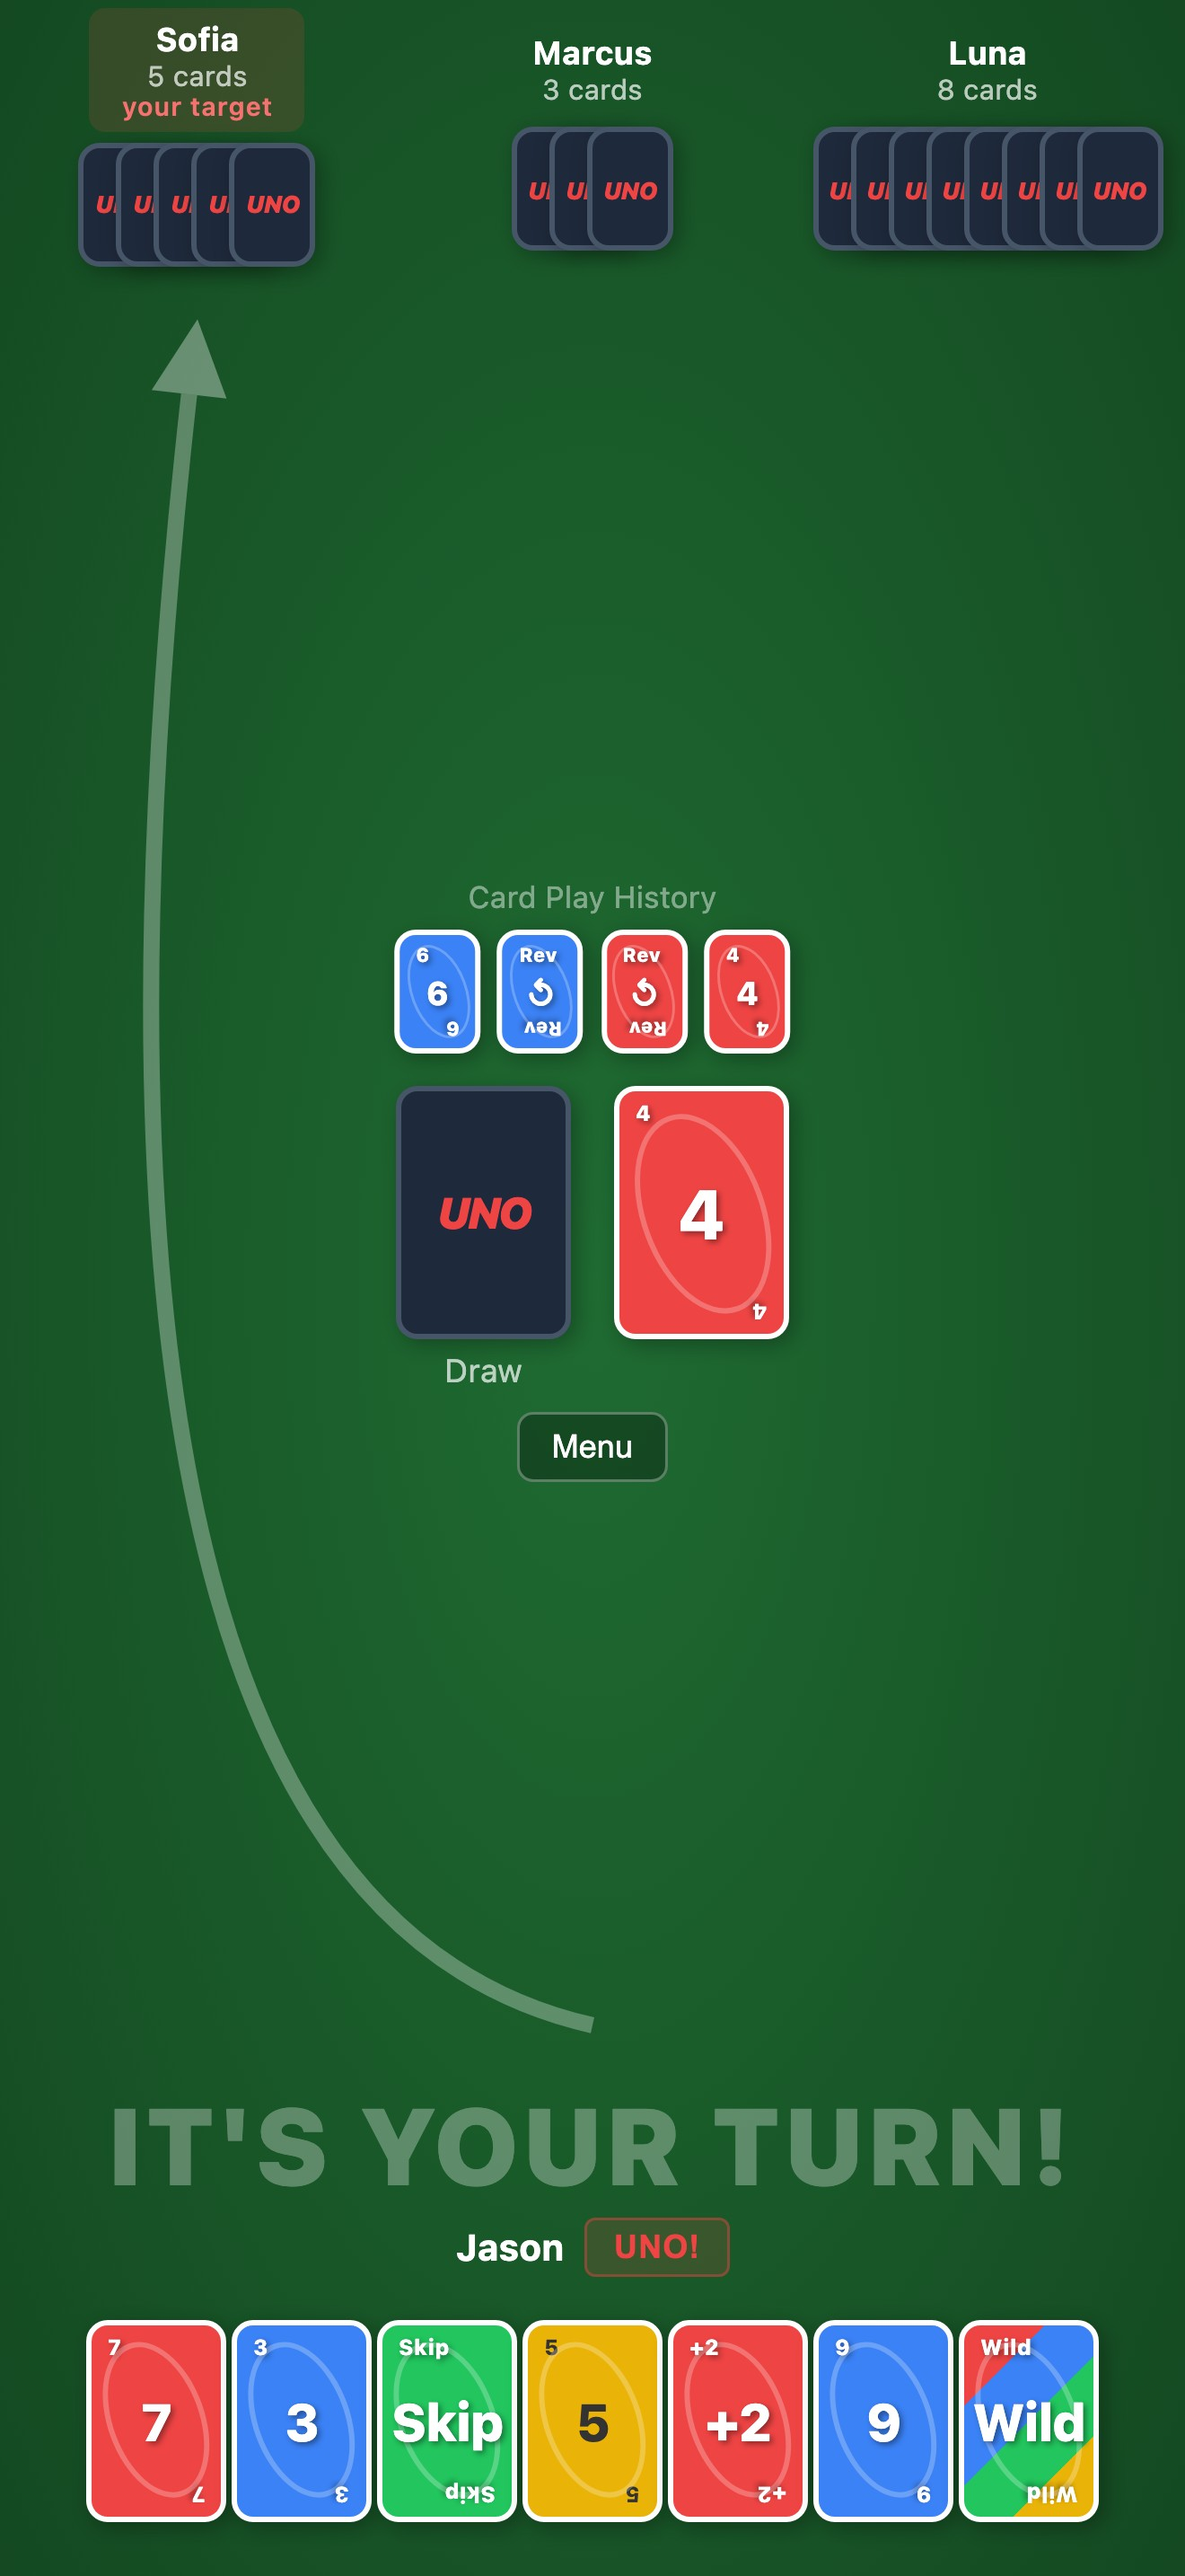
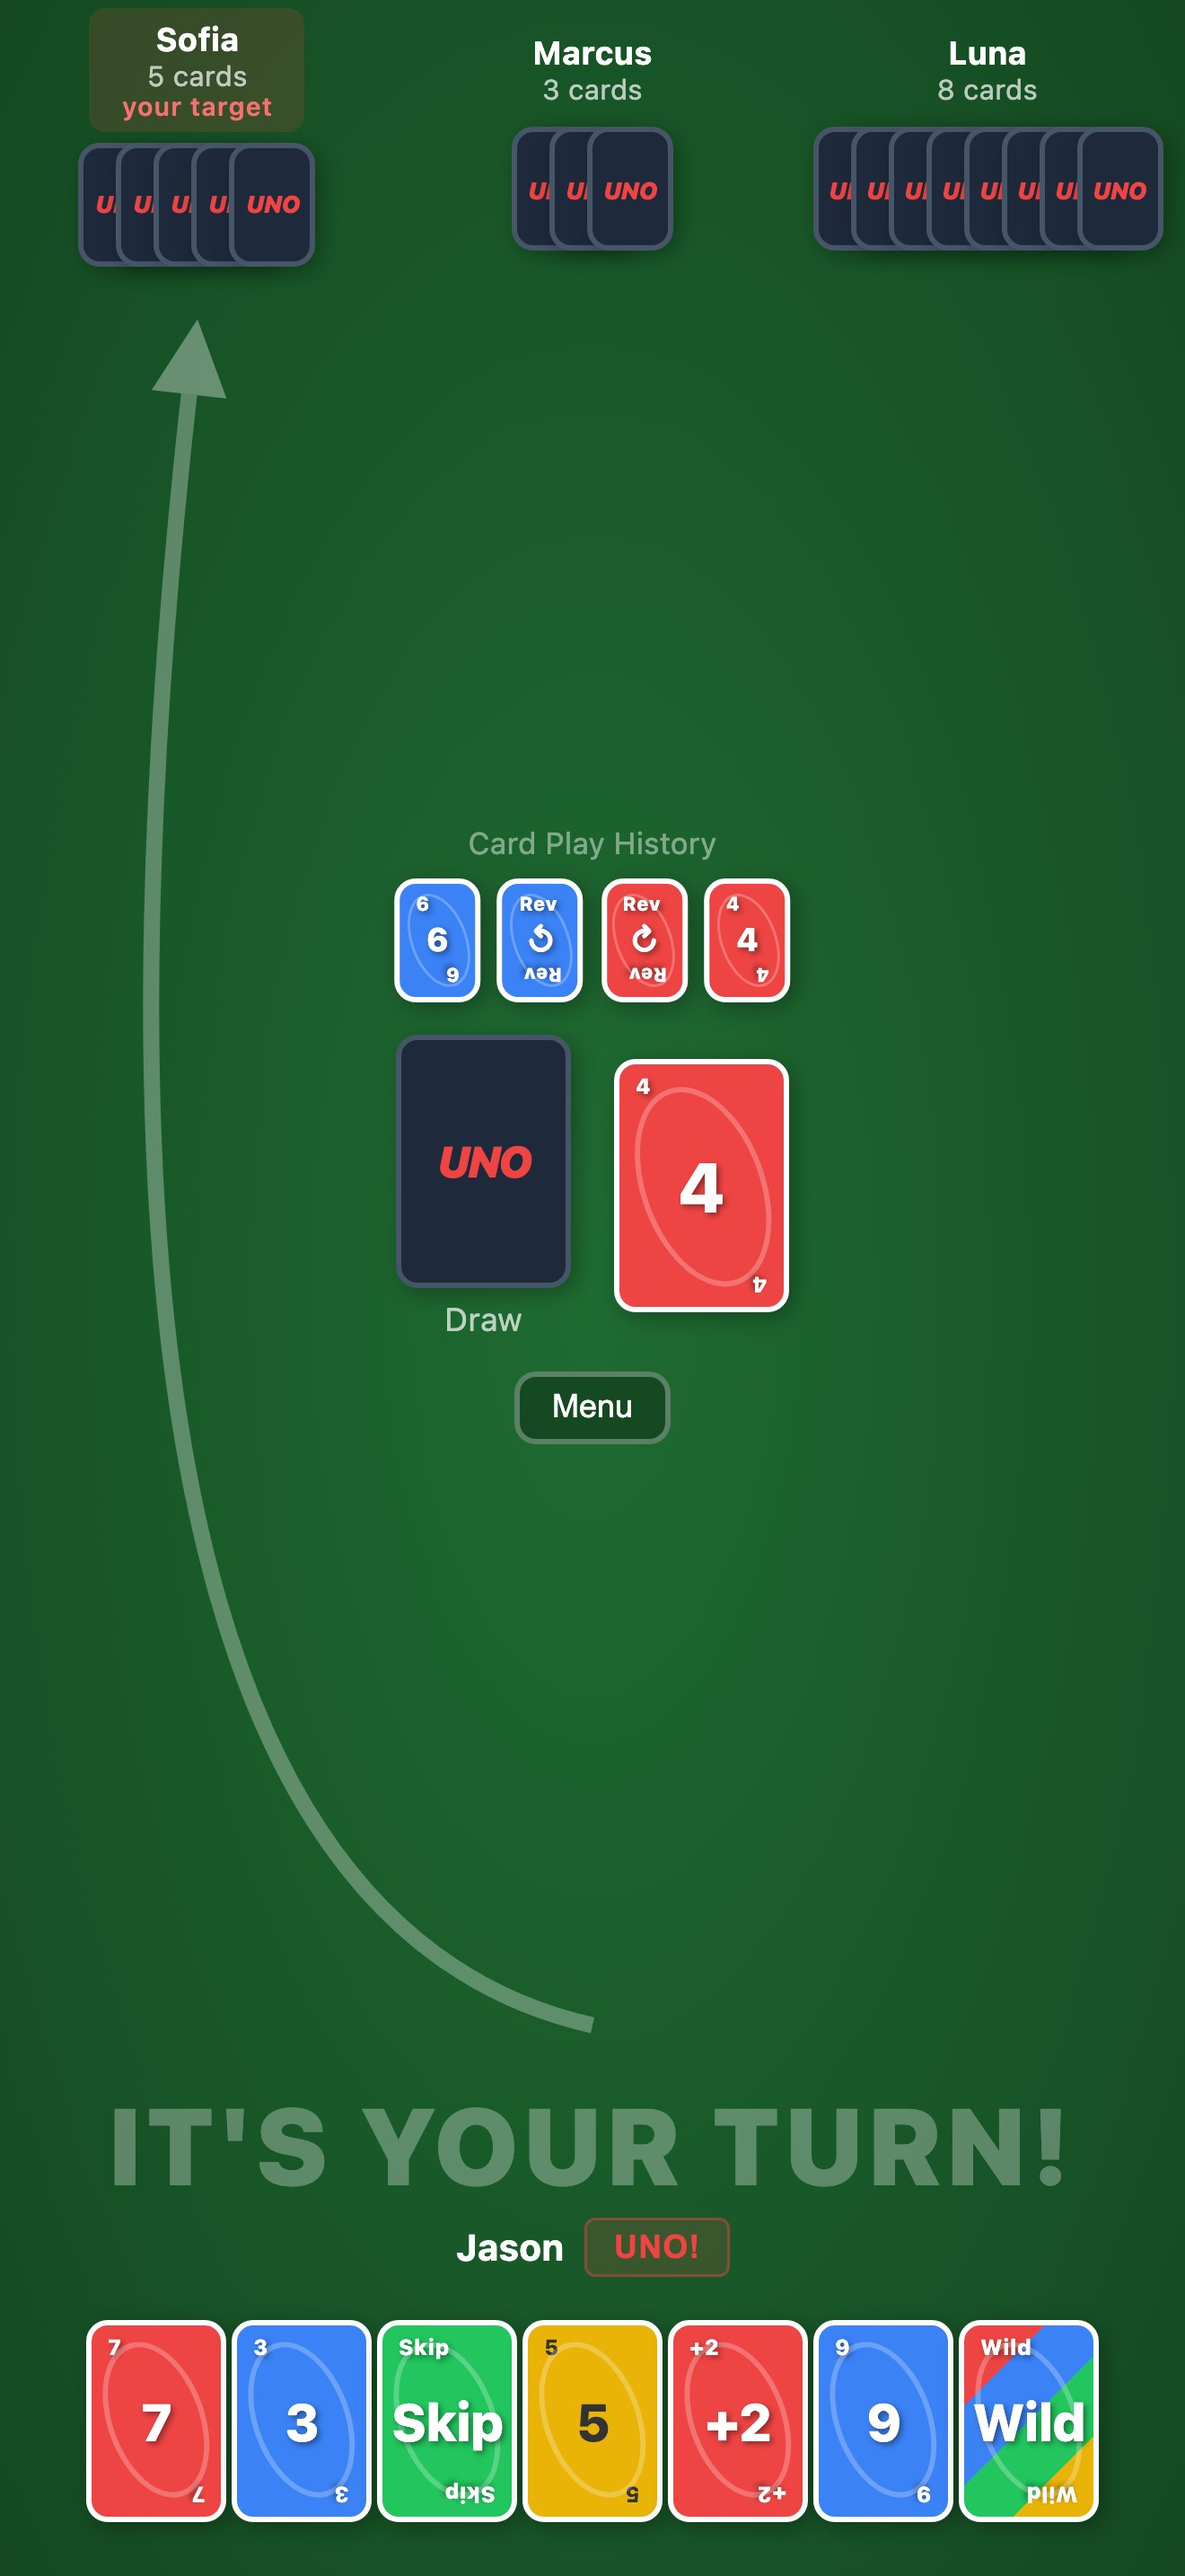
Add tablet-responsive layout, move menu button into game board, and improve screenshot reliability
Introduces a compact layout breakpoint at 1100px for tablets with scaled-up card
sizes, moves the menu button from a fixed overlay into the GameBoard component,
refines direction arrow thresholds, bumps iOS marketing version to 1.0.2, and
makes the screenshot script use fresh pages per scenario with robust state waiting.

Changed region(s): [[0.3106, 0.3103, 0.6833, 0.5896]]

diff --git a/src/style.css b/src/style.css
@@ -219,7 +219,7 @@ body {
   position: relative;
   display: flex;
   gap: 2rem;
-  align-items: flex-start;
+  align-items: center;
 }
 
 /* ---- Cards ---- */
@@ -771,26 +771,22 @@ body {
 
 /* ---- Menu Button & Pause Menu ---- */
 .menu-btn {
-  position: fixed;
-  bottom: 50%;
-  left: 50%;
-  transform: translate(-50%, 4.5rem);
   padding: 0.4rem 1rem;
-  border-radius: 6px;
-  border: 1px solid rgba(255,255,255,0.3);
+  border-radius: var(--card-radius);
+  border: var(--card-border) solid rgba(255,255,255,0.3);
   background: rgba(0,0,0,0.3);
   color: #fff;
   font-size: 0.85rem;
   cursor: pointer;
   z-index: 50;
   transition: background 0.15s;
+  align-self: center;
 }
 
 .menu-btn--lobby {
+  position: fixed;
   bottom: 1rem;
-  left: auto;
   right: 1rem;
-  transform: none;
 }
 
 .menu-btn:hover {
@@ -994,7 +990,151 @@ body {
   }
 }
 
-/* ---- Mobile Layout ---- */
+/* ---- Compact Layout (Tablet + Phone) ---- */
+@media (width <= 1100px) {
+  /* Row-based stacked layout */
+  .game-table {
+    grid-template-columns: 1fr 1fr 1fr;
+    grid-template-rows: auto 1fr auto;
+    grid-template-areas:
+      "left   top    right"
+      "center center center"
+      "bottom bottom bottom";
+  }
+
+  .game-table__top,
+  .game-table__left,
+  .game-table__right {
+    justify-content: center;
+  }
+
+  /* All AI hands horizontal */
+  .ai-hand__cards--left,
+  .ai-hand__cards--right {
+    flex-direction: row;
+  }
+
+  .ai-card--left,
+  .ai-card--right {
+    margin-top: 0;
+    margin-left: var(--ai-overlap-h);
+  }
+
+  .ai-card--left:first-child,
+  .ai-card--right:first-child {
+    margin-left: 0;
+  }
+
+  /* Top bar */
+  .top-bar {
+    display: none;
+  }
+}
+
+/* ---- Tablet Sizes (641px – 1100px) ---- */
+@media (641px <= width <= 1100px) {
+  :root {
+    --card-w: 80px;
+    --card-h: 115px;
+    --card-font: 1.7rem;
+    --card-border: 3px;
+    --card-radius: 12px;
+
+    --card-sm-w: 52px;
+    --card-sm-h: 75px;
+    --card-sm-font: 0.8rem;
+
+    --card-lg-w: 105px;
+    --card-lg-h: 152px;
+    --card-lg-font: 2.3rem;
+
+    --hand-overlap: 8px;
+    --hover-lift: -20px;
+    --ai-overlap-h: -30px;
+    --ai-overlap-v: -45px;
+  }
+
+  .your-turn-indicator {
+    font-size: 4rem;
+  }
+
+  .ai-hand__label {
+    font-size: 0.9rem;
+    padding: 0.4rem 1rem;
+  }
+
+  .ai-hand__count {
+    font-size: 0.8rem;
+  }
+
+  .ai-hand__target-badge {
+    font-size: 0.75rem;
+  }
+
+  .human-hand__label {
+    font-size: 1rem;
+  }
+
+  .draw-pile__label {
+    font-size: 0.9rem;
+  }
+
+  .uno-btn {
+    padding: 0.3rem 0.8rem;
+    font-size: 0.9rem;
+  }
+
+  .menu-btn {
+    font-size: 1rem;
+    padding: 0.5rem 1.25rem;
+  }
+
+  .color-btn {
+    width: 90px;
+    height: 90px;
+  }
+
+  .game-over {
+    padding: 3rem 4rem;
+  }
+
+  .game-over__title {
+    font-size: 2.5rem;
+  }
+
+  .recent-play .card {
+    width: 52px;
+    height: 75px;
+    font-size: 1rem;
+  }
+
+  .recent-play .card__center {
+    font-size: 1.2rem;
+  }
+
+  .recent-plays__label {
+    font-size: 0.85rem;
+  }
+
+  .pass-btn {
+    font-size: 1.1rem;
+    padding: 0.6rem 1.5rem;
+  }
+
+  .card__center {
+    font-size: 1.8rem;
+  }
+
+  .card__center--large {
+    font-size: 2.4rem;
+  }
+
+  .card__corner {
+    font-size: 0.75rem;
+  }
+}
+
+/* ---- Phone Sizes (≤ 640px) ---- */
 @media (width <= 640px) {
   :root {
     --card-w: 52px;
@@ -1015,44 +1155,6 @@ body {
     --hover-lift: -12px;
     --ai-overlap-h: -18px;
     --ai-overlap-v: -30px;
-  }
-
-  /* Single-column stacked layout */
-  .game-table {
-    grid-template-columns: 1fr 1fr 1fr;
-    grid-template-rows: auto 1fr auto;
-    grid-template-areas:
-      "left   top    right"
-      "center center center"
-      "bottom bottom bottom";
-  }
-
-  .game-table__top,
-  .game-table__left,
-  .game-table__right {
-    justify-content: center;
-  }
-
-  /* All AI hands horizontal on mobile */
-  .ai-hand__cards--left,
-  .ai-hand__cards--right {
-    flex-direction: row;
-  }
-
-  .ai-card--left,
-  .ai-card--right {
-    margin-top: 0;
-    margin-left: var(--ai-overlap-h);
-  }
-
-  .ai-card--left:first-child,
-  .ai-card--right:first-child {
-    margin-left: 0;
-  }
-
-  /* Top bar */
-  .top-bar {
-    display: none;
   }
 
   .top-bar__title {

diff --git a/src/components/GameBoard.vue b/src/components/GameBoard.vue
@@ -30,8 +30,9 @@ function calcArrowPositions(): ArrowPositions | null {
   if (!table) return null
 
   const tableRect = table.getBoundingClientRect()
-  const isMobile = window.innerWidth <= 640
-  const gap = isMobile ? 20 : 35
+  const isCompact = window.innerWidth <= 1100
+  const isPhone = window.innerWidth <= 640
+  const gap = isPhone ? 20 : 35
 
   const getPlayerCards = (idx: number): HTMLElement | null => {
     if (idx === 0) return table.querySelector('.human-hand__cards')
@@ -116,13 +117,13 @@ function calcArrowPositions(): ArrowPositions | null {
     return null
   }
 
-  const getEdgePoint = isMobile ? getMobileEdgePoint : getDesktopEdgePoint
+  const getEdgePoint = isCompact ? getMobileEdgePoint : getDesktopEdgePoint
   const start = getEdgePoint(from, to)
   const end = getEdgePoint(to, from)
   if (!start || !end) return null
 
   let cpX: number, cpY: number
-  const edgePad = isMobile ? 8 : 12
+  const edgePad = isPhone ? 8 : 12
   if (start._humanArc || end._humanArc) {
     const arcRight = start._arcRight || end._arcRight
     cpX = arcRight ? tableRect.width - edgePad : edgePad
@@ -142,7 +143,7 @@ function calcArrowPositions(): ArrowPositions | null {
     const awayX = midX - centerX
     const awayY = midY - centerY
     const awayDist = Math.sqrt(awayX * awayX + awayY * awayY) || 1
-    const curvature = isMobile ? 40 : 80
+    const curvature = isPhone ? 40 : 80
     cpX = midX + (awayX / awayDist) * curvature
     cpY = midY + (awayY / awayDist) * curvature
   }
@@ -155,8 +156,8 @@ function applyArrowPositions(p: ArrowPositions) {
   const head = document.getElementById('arrow-head')
   if (!line) return
 
-  const isMobile = window.innerWidth <= 640
-  const hl = isMobile ? 28 : 48
+  const isPhone = window.innerWidth <= 640
+  const hl = isPhone ? 28 : 48
   const dx = p.ex - p.cpX
   const dy = p.ey - p.cpY
   const dist = Math.sqrt(dx * dx + dy * dy)
@@ -168,7 +169,7 @@ function applyArrowPositions(p: ArrowPositions) {
   line.setAttribute('d', `M ${p.sx} ${p.sy} Q ${p.cpX} ${p.cpY} ${lineEndX} ${lineEndY}`)
 
   if (head) {
-    const hw = isMobile ? 14 : 24
+    const hw = isPhone ? 14 : 24
     head.setAttribute('points',
       `${p.ex - nx * hl + ny * hw} ${p.ey - ny * hl - nx * hw}, ${p.ex} ${p.ey}, ${p.ex - nx * hl - ny * hw} ${p.ey - ny * hl + nx * hw}`
     )
@@ -487,6 +488,7 @@ const emit = defineEmits<{
   cancelColor: []
   reorderHand: [from: number, to: number]
   dealComplete: []
+  menu: []
 }>()
 
 const human = computed(() => props.gameState.players[0])
@@ -734,7 +736,9 @@ function onDrop(e: DragEvent) {
         <div class="discard-area">
           <DiscardPile v-if="top" :card="top" :last-player="lastPlayerIndex" />
         </div>
+
       </div>
+      <button v-if="gameState.phase !== 'game_over'" class="menu-btn" @click="emit('menu')">Menu</button>
     </div>
 
     <!-- AI East (right) -->

diff --git a/src/App.vue b/src/App.vue
@@ -163,6 +163,7 @@ function renderMarkdown(md: string): string {
         @cancel-color="cancelColor"
         @reorder-hand="controller.reorderHand"
         @deal-complete="onDealComplete"
+        @menu="showMenu = !showMenu"
       />
     </template>
 
@@ -179,12 +180,13 @@ function renderMarkdown(md: string): string {
         @cancel-color="() => {}"
         @reorder-hand="() => {}"
         @deal-complete="() => {}"
+        @menu="showMenu = !showMenu"
       />
       <GameOverOverlay :winner-name="winnerName()" @play-again="newGameRestart" />
     </template>
 
-    <!-- Menu Button -->
-    <button :class="['menu-btn', controller.phase.value === 'lobby' && 'menu-btn--lobby']" @click="showMenu = !showMenu">Menu</button>
+    <!-- Menu Button (lobby only; in-game button is inside GameBoard) -->
+    <button v-if="controller.phase.value === 'lobby'" class="menu-btn menu-btn--lobby" @click="showMenu = !showMenu">Menu</button>
 
     <!-- Pause Menu -->
     <div v-if="showMenu" class="modal-overlay" @click="showMenu = false">
